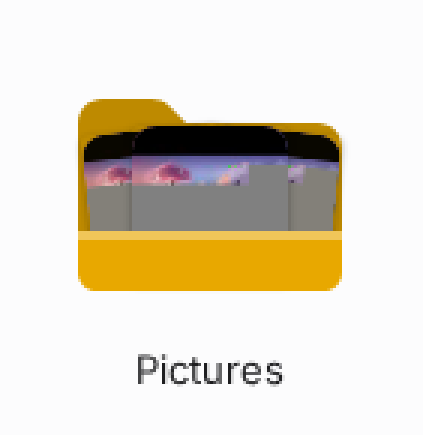
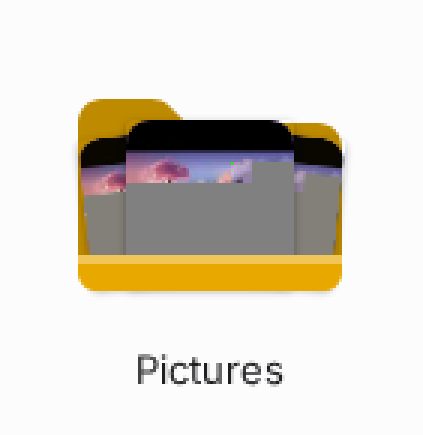
fix: slim the folder-preview flap so photos fill the folder (#148)
Shrink the front flap to a lip (y32 -> y36) and enlarge the photos
(front 0.54 -> 0.58, back 0.48 -> 0.52) so previews span nearly the
whole folder interior; the lip overlapping their bottom edge keeps the
tucked-inside read.

Claude-Session: https://claude.ai/code/session_01FV1M31dQggbdrekeLCvhwc

Changed region(s): [[0.1844, 0.269, 0.8298, 0.6276], [0.2151, 0.6575, 0.7069, 0.6874], [0.7376, 0.6575, 0.7683, 0.6874]]

diff --git a/src/lib/components/FolderThumbnail.svelte b/src/lib/components/FolderThumbnail.svelte
@@ -119,10 +119,11 @@
 
   // Photo geometry (fractions of the tile): a square front photo centred in
   // the pocket, with up to two photos fanned behind it. Sized to fill the
-  // folder interior — the flap lip (y32/48 ≈ 67%) is what makes them read as
-  // "inside"; sizes are kept close so the front photo frames the back pair.
-  const frontSize = $derived(Math.round(size * 0.54));
-  const backSize = $derived(Math.round(size * 0.48));
+  // folder interior — the slim flap lip (y36/48 = 75%) overlapping their
+  // bottom edge is what makes them read as "inside"; sizes are kept close so
+  // the front photo frames the back pair.
+  const frontSize = $derived(Math.round(size * 0.58));
+  const backSize = $derived(Math.round(size * 0.52));
 </script>
 
 <div class="folder-thumb" bind:this={containerEl} style="--size: {size}px">
@@ -151,10 +152,10 @@
     <svg class="folder-layer" viewBox="0 0 48 48" preserveAspectRatio="xMidYMid meet" aria-hidden="true">
       <!-- Front flap (theme colour) covering the photos' lower edge so they read
            as tucked into the folder pocket. Matches FileIcon's front-panel
-           width and rounded bottom; low lip (y32) keeps most of the pocket
-           open so the photos can fill the folder interior. -->
-      <path d="M2 32H46V39C46 40.66 44.66 42 43 42H5C3.34 42 2 40.66 2 39V32Z" class="folder-front-fill"/>
-      <path d="M2 32H46V33.5H2V32Z" fill="#fff" fill-opacity="0.35"/>
+           width and rounded bottom; slim lip (y36) keeps nearly the whole
+           interior open so the photos can fill the folder. -->
+      <path d="M2 36H46V39C46 40.66 44.66 42 43 42H5C3.34 42 2 40.66 2 39V36Z" class="folder-front-fill"/>
+      <path d="M2 36H46V37.5H2V36Z" fill="#fff" fill-opacity="0.35"/>
     </svg>
   {/if}
 </div>
@@ -197,9 +198,9 @@
   .front-photo {
     /* Front photo filling the pocket: top edge just below the folder back's
        top (y14/48 ≈ 29%) so the folder silhouette stays readable, bottom edge
-       tucked behind the front flap (lip at y32/48 ≈ 67%). Narrow enough that
+       tucked behind the front flap (lip at y36/48 = 75%). Narrow enough that
        the fanned back pair stays visible on either side. */
-    top: 30%;
+    top: 28%;
     left: 50%;
     transform: translateX(-50%);
   }
@@ -207,17 +208,17 @@
   .back-photo {
     /* Fanned wider than the front photo so their rotated edges peek out at
        the sides; kept inside the pocket like the front photo. */
-    top: 31%;
+    top: 32%;
     opacity: 0.95;
   }
 
   .back-photo.left {
-    left: 7%;
+    left: 6%;
     transform: rotate(-6deg);
   }
 
   .back-photo.right {
-    right: 7%;
+    right: 6%;
     transform: rotate(6deg);
   }
 </style>
